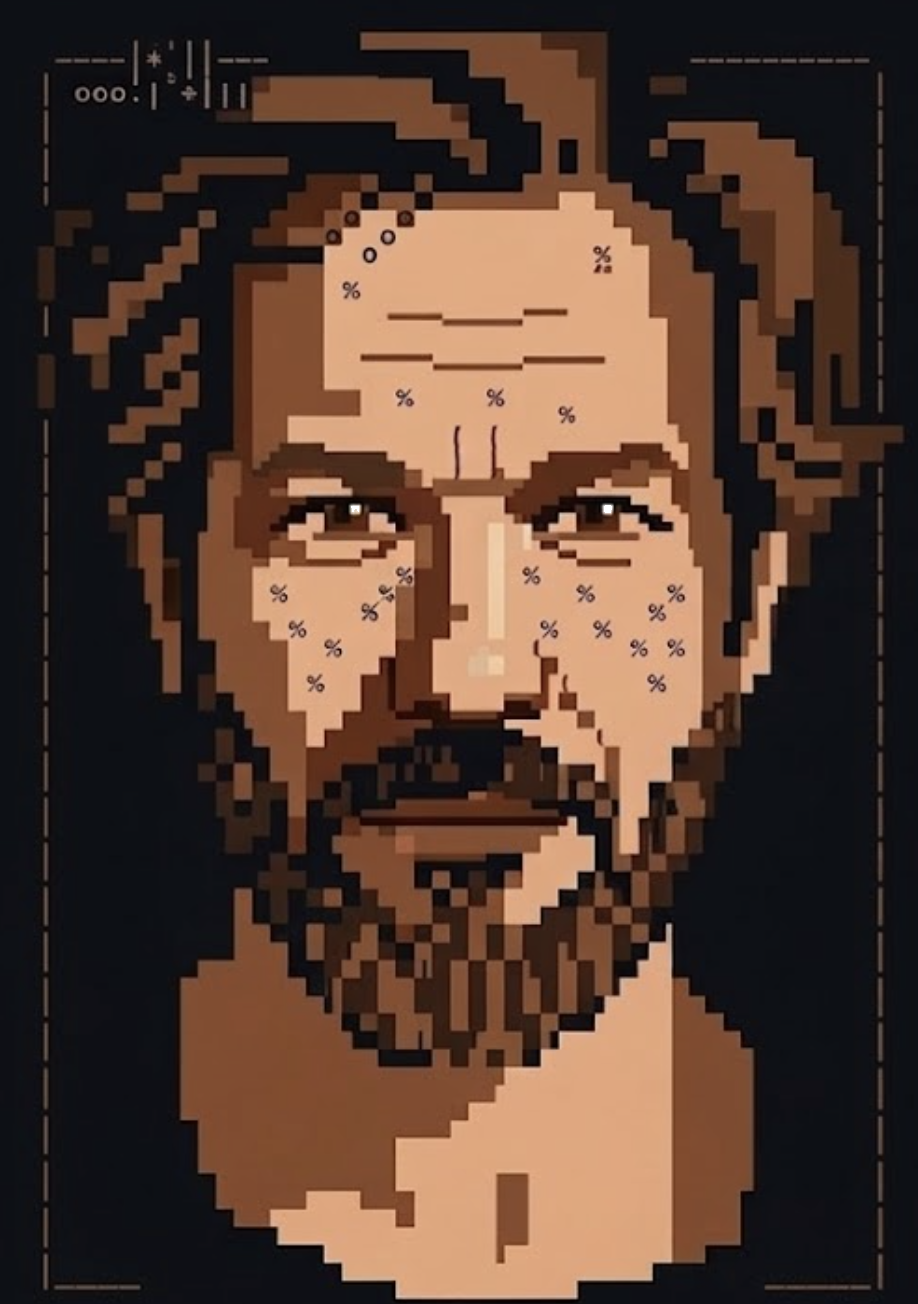
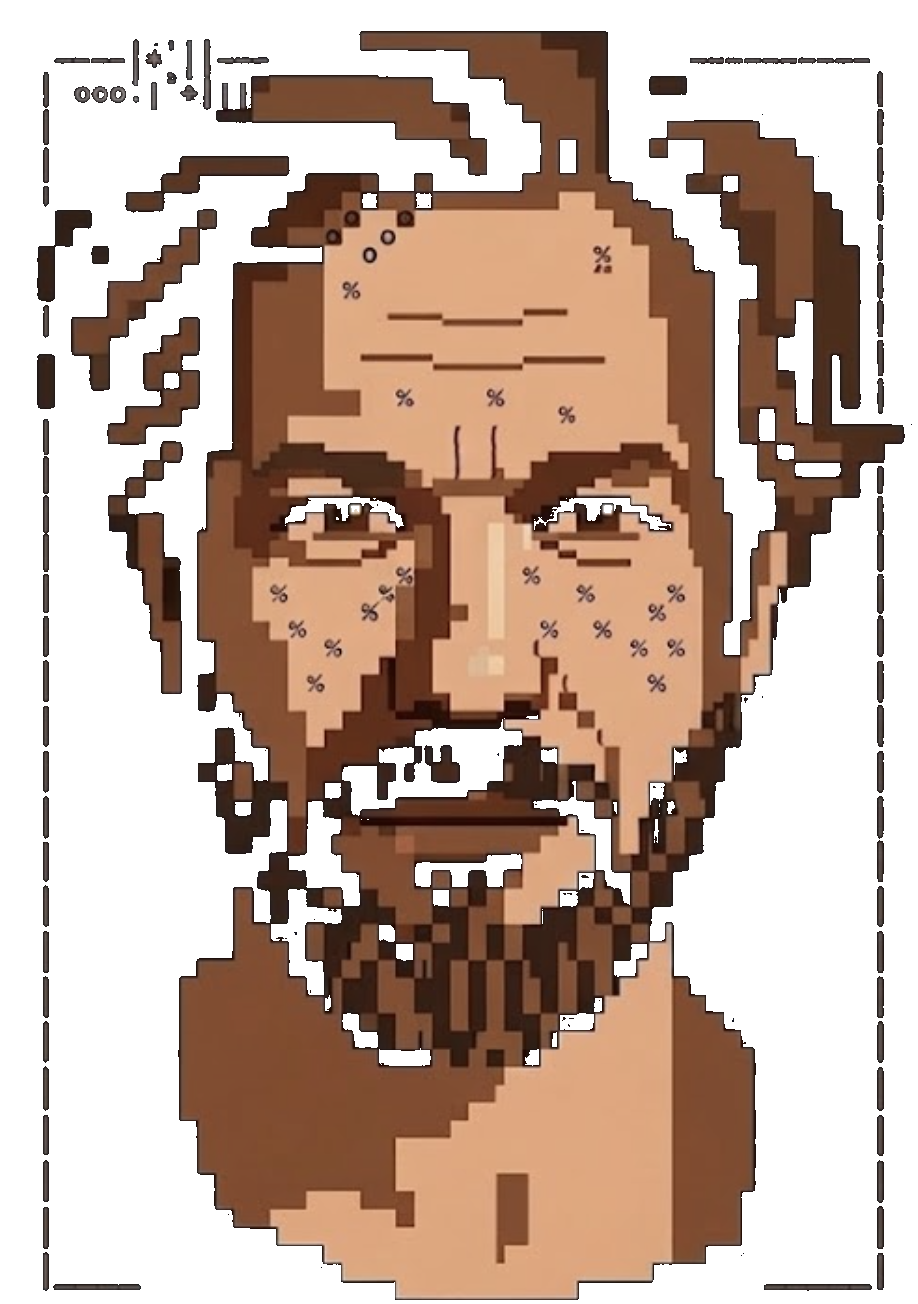
orga

diff --git a/public/css/terminal.css b/public/css/terminal.css
@@ -174,9 +174,7 @@ html, body {
   width: 160px;
   height: auto;
   border-radius: 4px;
-  filter: sepia(0.4) saturate(0.8) brightness(0.9);
   background: transparent;
-  mix-blend-mode: lighten;
 }
 
 .orga-name {